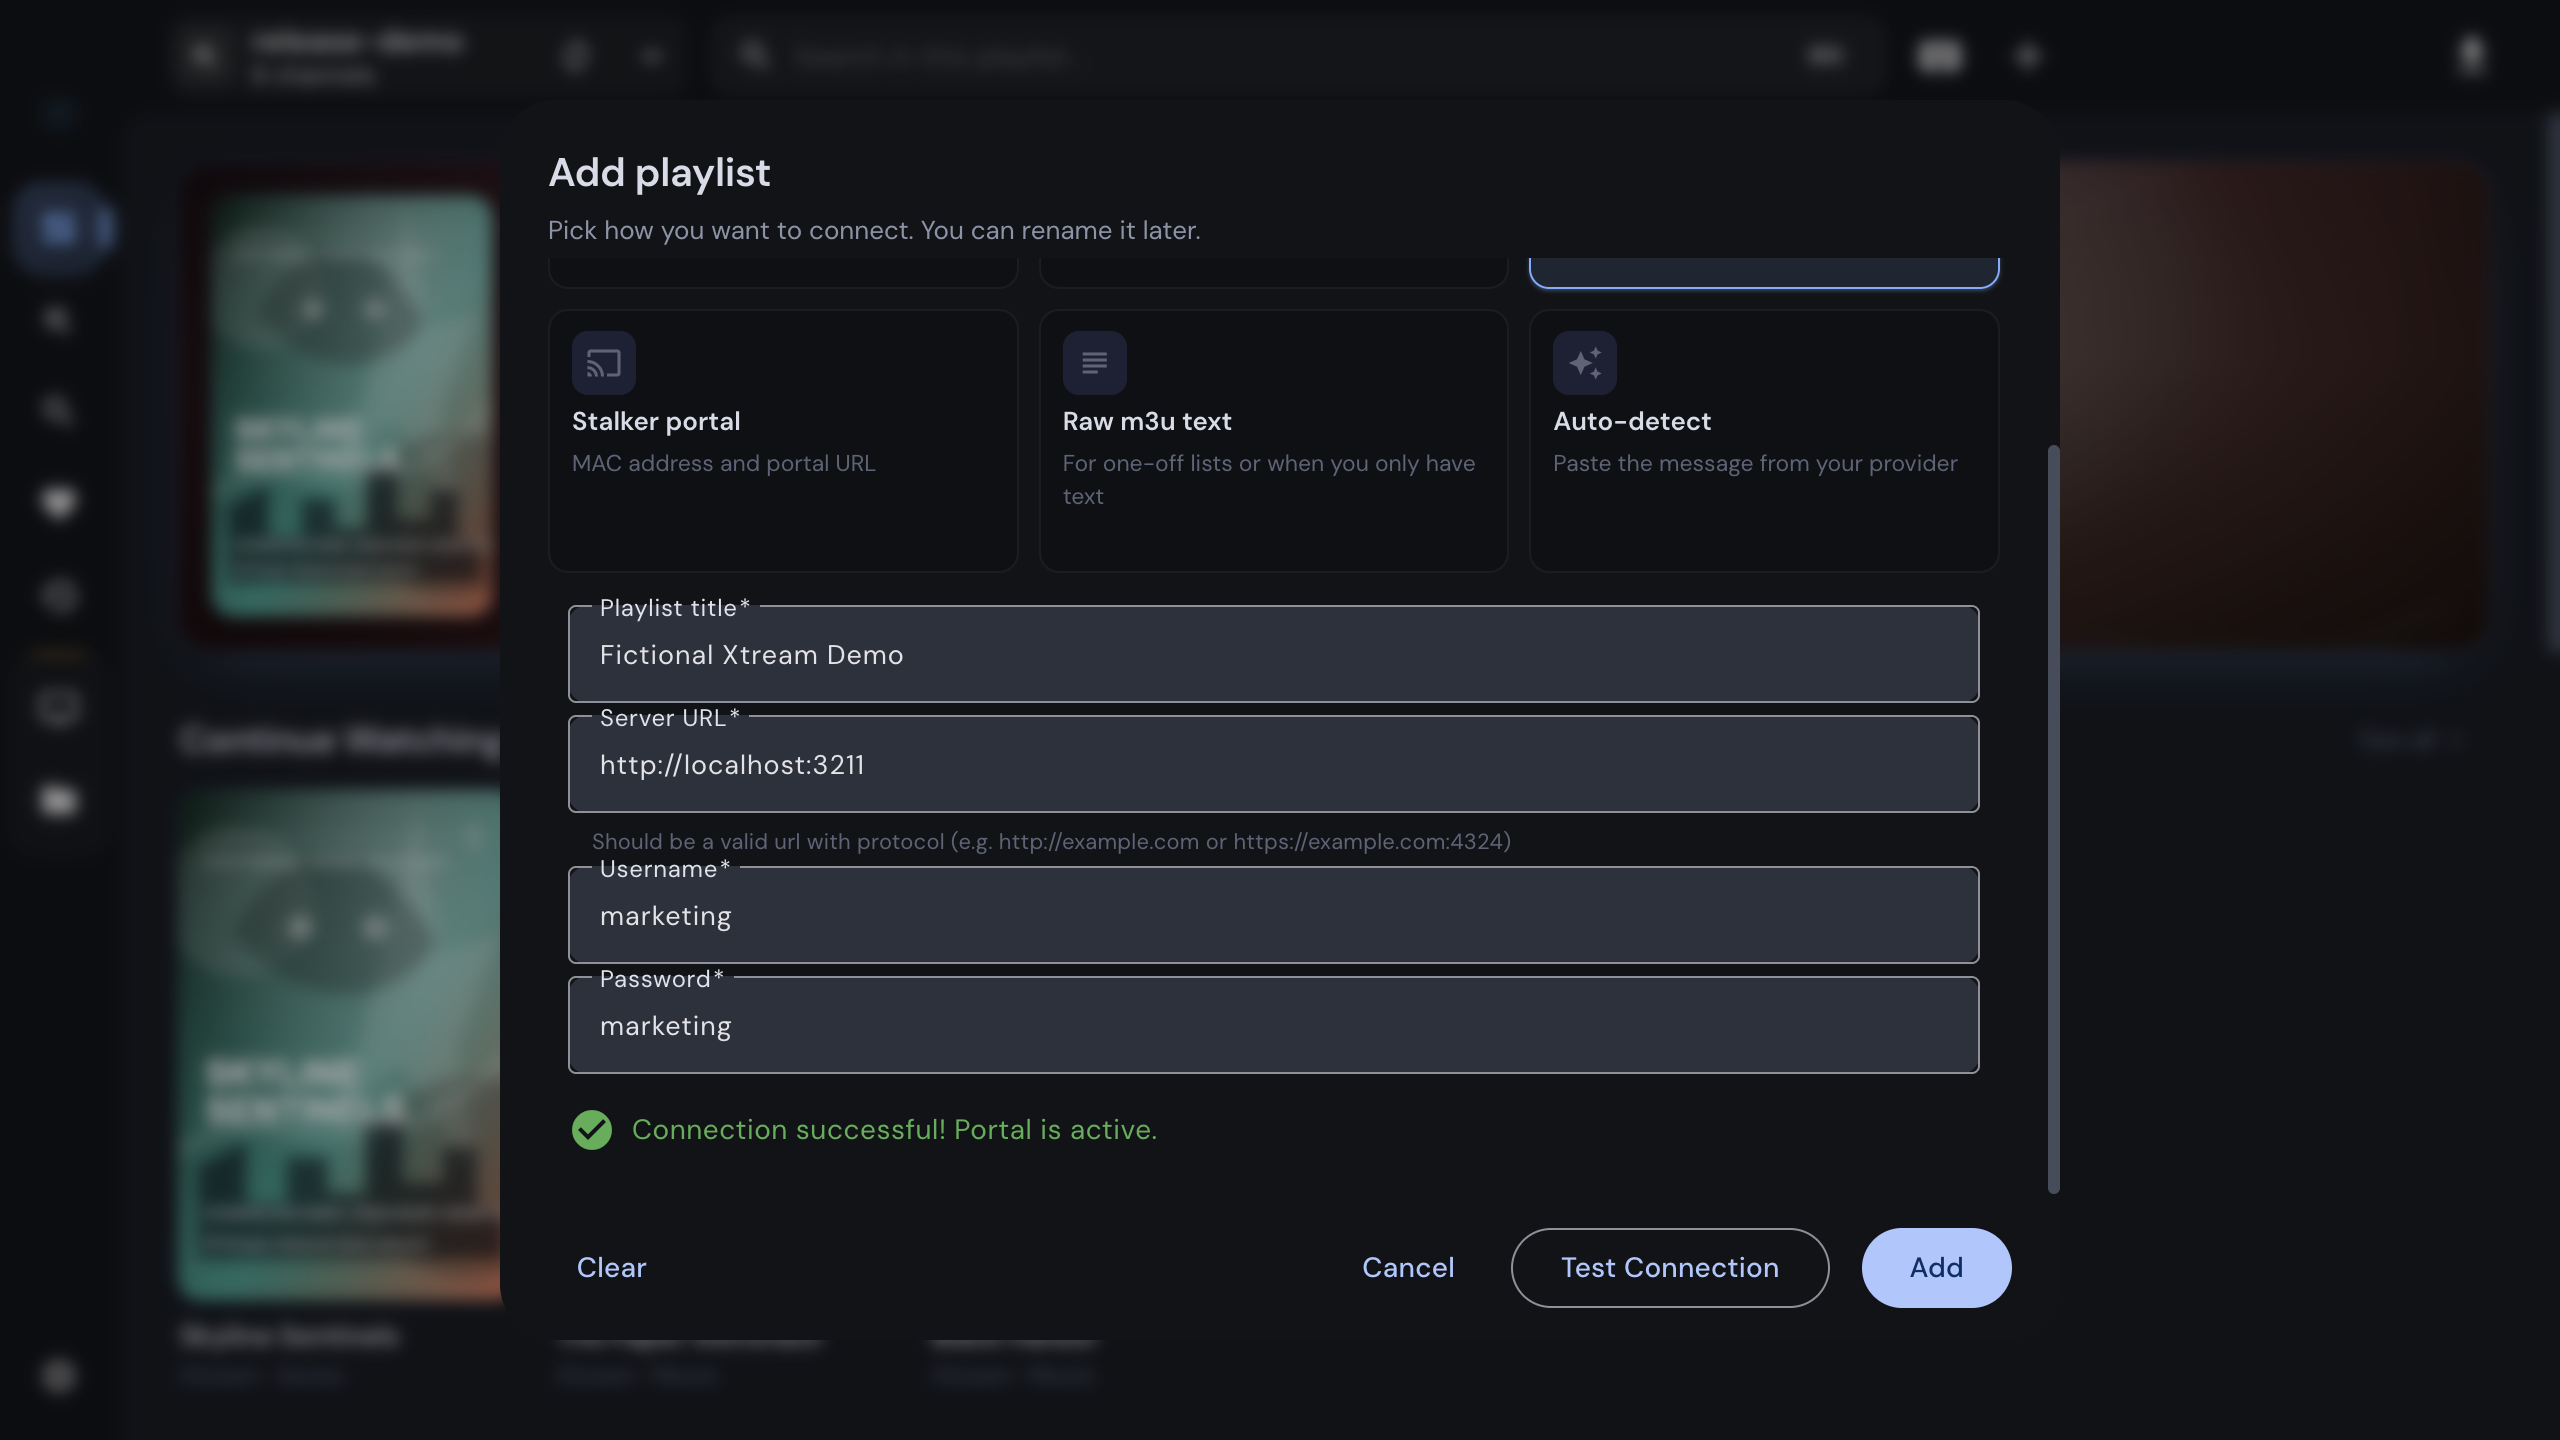
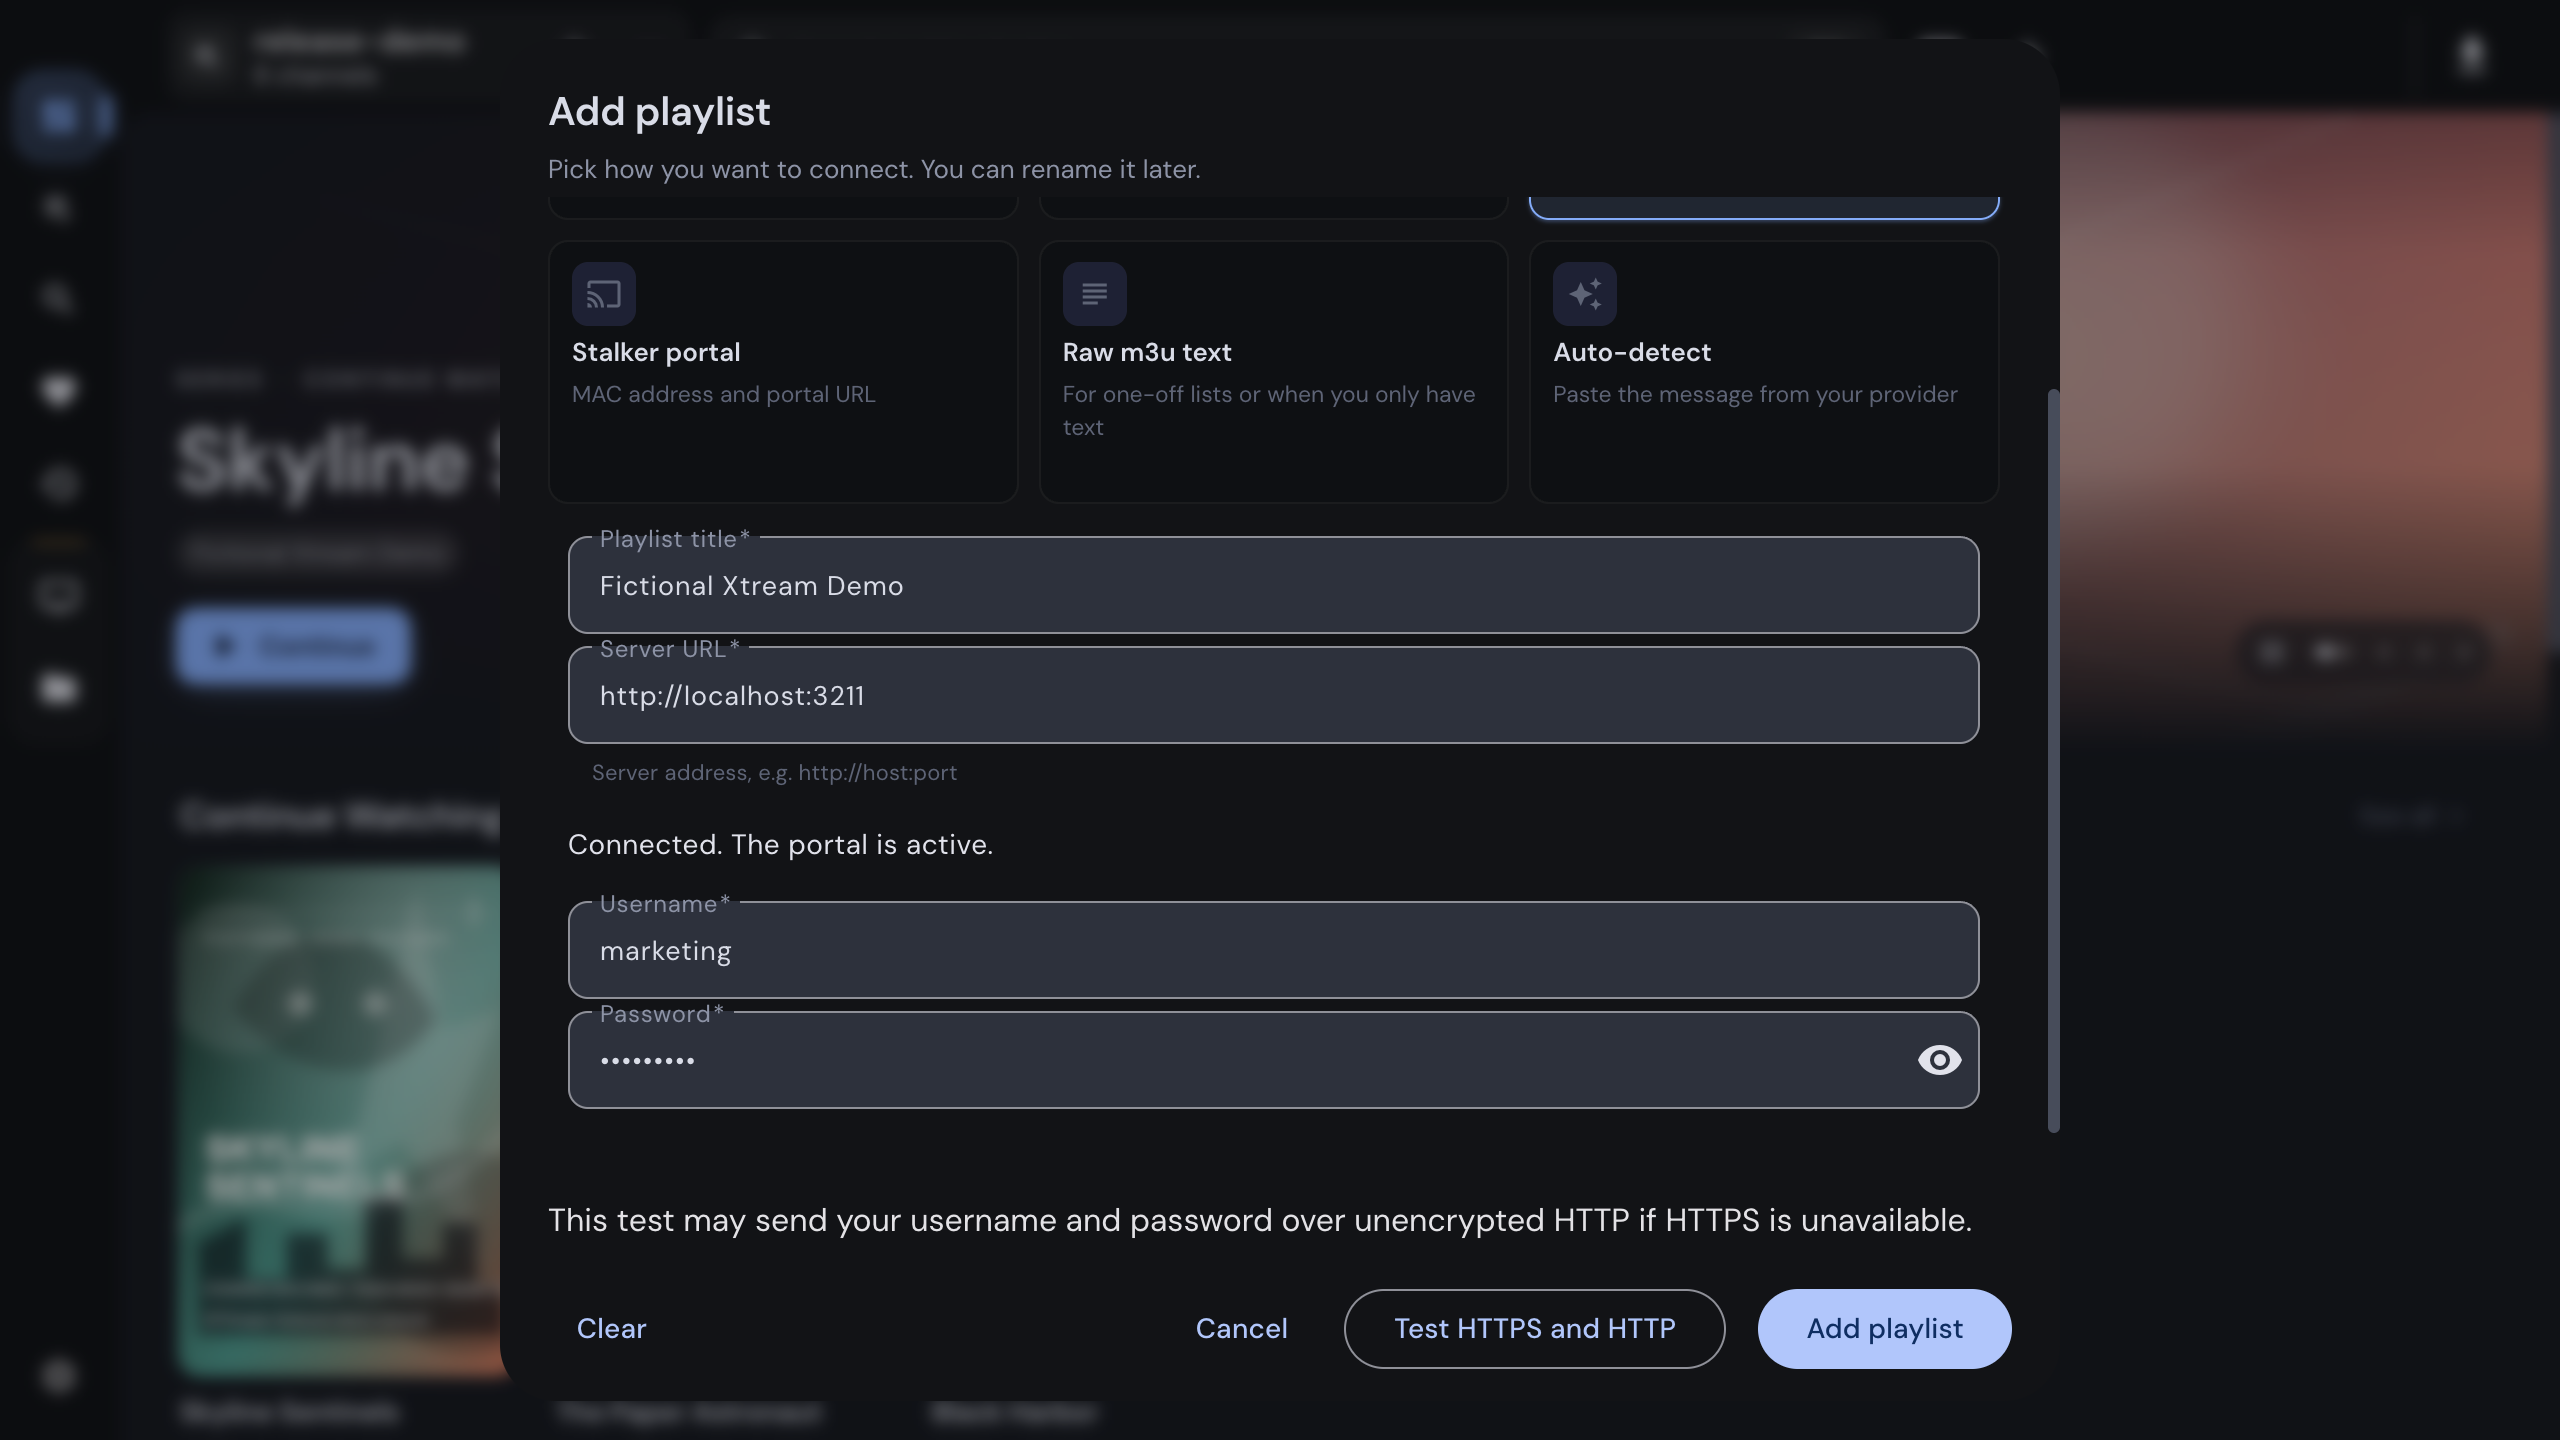
fix(tools): capture the Xtream guide shot against the current connection test
The guides capture clicked a "Test connection" button and waited for a
`.connection-status` element; neither exists any more, so
`pnpm release:screenshots --group guides` failed on the Xtream add shot.

- Click the exact "Test HTTPS and HTTP" button and read the verdict from
  the form's role="status" line. The status first reads "Testing
  connection…", so wait for the active-portal verdict and fail the shot
  with the text actually shown otherwise.
- The verdict now sits above the credentials: scroll the password field
  into view so the frame shows the whole filled form.
- Re-capture both themes (masked password, "Add playlist").
- Xtream guide: name the current button and status messages.
- Release pipeline: document the shot's fail-closed verdict wait.

diff --git a/tools/release/capture-navigation-setup-actions.ts b/tools/release/capture-navigation-setup-actions.ts
@@ -63,17 +63,31 @@ async function openAddPlaylistXtream(page: Page): Promise<void> {
     await dialog.locator('#serverUrl').fill(XTREAM_MOCK_ORIGIN);
     await dialog.locator('#username').fill(XTREAM_FIXTURE_CREDENTIALS.username);
     await dialog.locator('#password').fill(XTREAM_FIXTURE_CREDENTIALS.password);
-    // The status probe only talks to the local mock, so the frame can
-    // show the successful "portal is active" verdict the guide explains.
+    // The server URL is plain http://, so the probe never tries HTTPS and
+    // only talks to the local mock; the frame can show the successful
+    // "portal is active" verdict the guide explains.
     await dialog
-        .getByRole('button', { name: /test connection/i })
-        .first()
+        .getByRole('button', { name: 'Test HTTPS and HTTP', exact: true })
         .click();
-    const status = dialog.locator('.connection-status');
-    await status.waitFor({ state: 'visible', timeout: 30_000 });
-    // The dialog body scrolls; bring the verdict the guide explains
-    // into frame together with the credential fields above it.
-    await status.scrollIntoViewIfNeeded();
+    // The status line first reads "Testing connection…"; wait for the
+    // verdict itself, so a refused account fails the shot instead of
+    // publishing a frame that contradicts the guide.
+    const status = dialog.getByRole('status');
+    await status
+        .filter({ hasText: /portal is active/i })
+        .waitFor({ state: 'visible', timeout: 30_000 })
+        .catch(async () => {
+            const shown = await status
+                .textContent({ timeout: 1_000 })
+                .catch(() => null);
+            throw new Error(
+                `Xtream connection test did not report an active portal within 30s (status: ${shown?.trim() || 'none'})`
+            );
+        });
+    // The dialog body scrolls. The verdict sits under the server URL,
+    // above the credentials, so scrolling to the last field frames the
+    // whole filled form together with the verdict the guide explains.
+    await dialog.locator('#password').scrollIntoViewIfNeeded();
     await page.waitForTimeout(500);
 }
 

diff --git a/docs/architecture/release-pipeline.md b/docs/architecture/release-pipeline.md
@@ -168,7 +168,11 @@ into `apps/website/public/blog/guides/screenshots/` instead of a release folder
 guard a release shot does; the add-playlist dialog shots fill the form with the
 mock's fictional `marketing` credentials and use a labeled hand-out for the
 Auto-detect method rather than a `get.php?username=…` link, because G4 rejects
-any URL carrying query credentials. Shots that walk into a Stalker portal
+any URL carrying query credentials. The Xtream shot clicks **Test HTTPS and
+HTTP** against the plain-`http://` mock, so no HTTPS probe is made, and fails
+the run unless the status line reports an active portal; the mock does not
+check passwords, so that verdict proves the scenario answered, not that the
+password is right. Shots that walk into a Stalker portal
 (`open-stalker-live`) make the run start the stalker-mock-server on port 3210
 and seed its `marketing-demo` portal as a third source, which is why they are
 never part of a release run. That scenario's MAC, `00:1A:79:00:00:07`, is the
